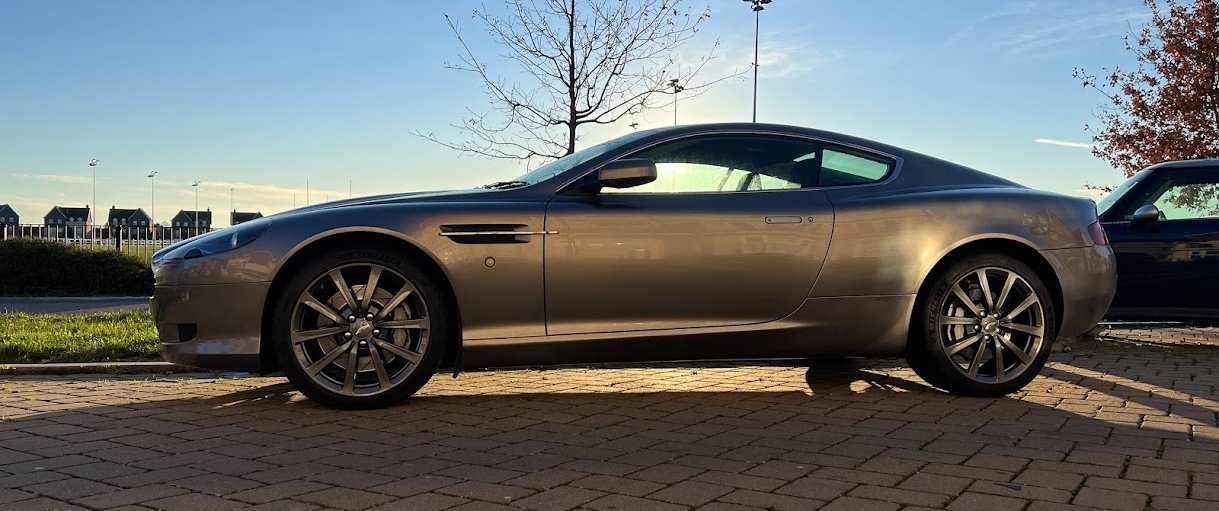
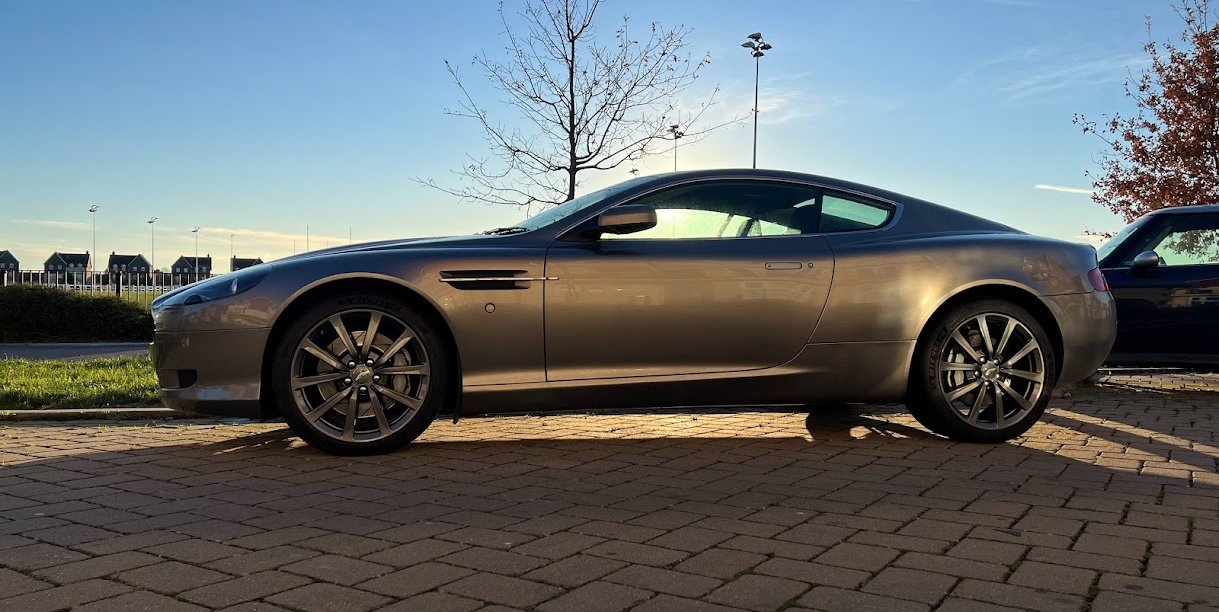
Gentler hero crop with full wheels; container matches image ratio exactly
Claude-Session: https://claude.ai/code/session_014RbHvC8AYXPcNLAzg65eSk

diff --git a/index.html b/index.html
@@ -45,7 +45,7 @@
 
   /* Hero photo slot */
   .hero-photo {
-    height: 46vh; min-height: 300px; position: relative;
+    aspect-ratio: 1219 / 612; position: relative;
     background:
       radial-gradient(ellipse 70% 100% at 50% 100%, rgba(200,169,110,0.13), transparent 60%),
       linear-gradient(180deg, var(--bg) 0%, #141210 50%, #0a0908 100%);
